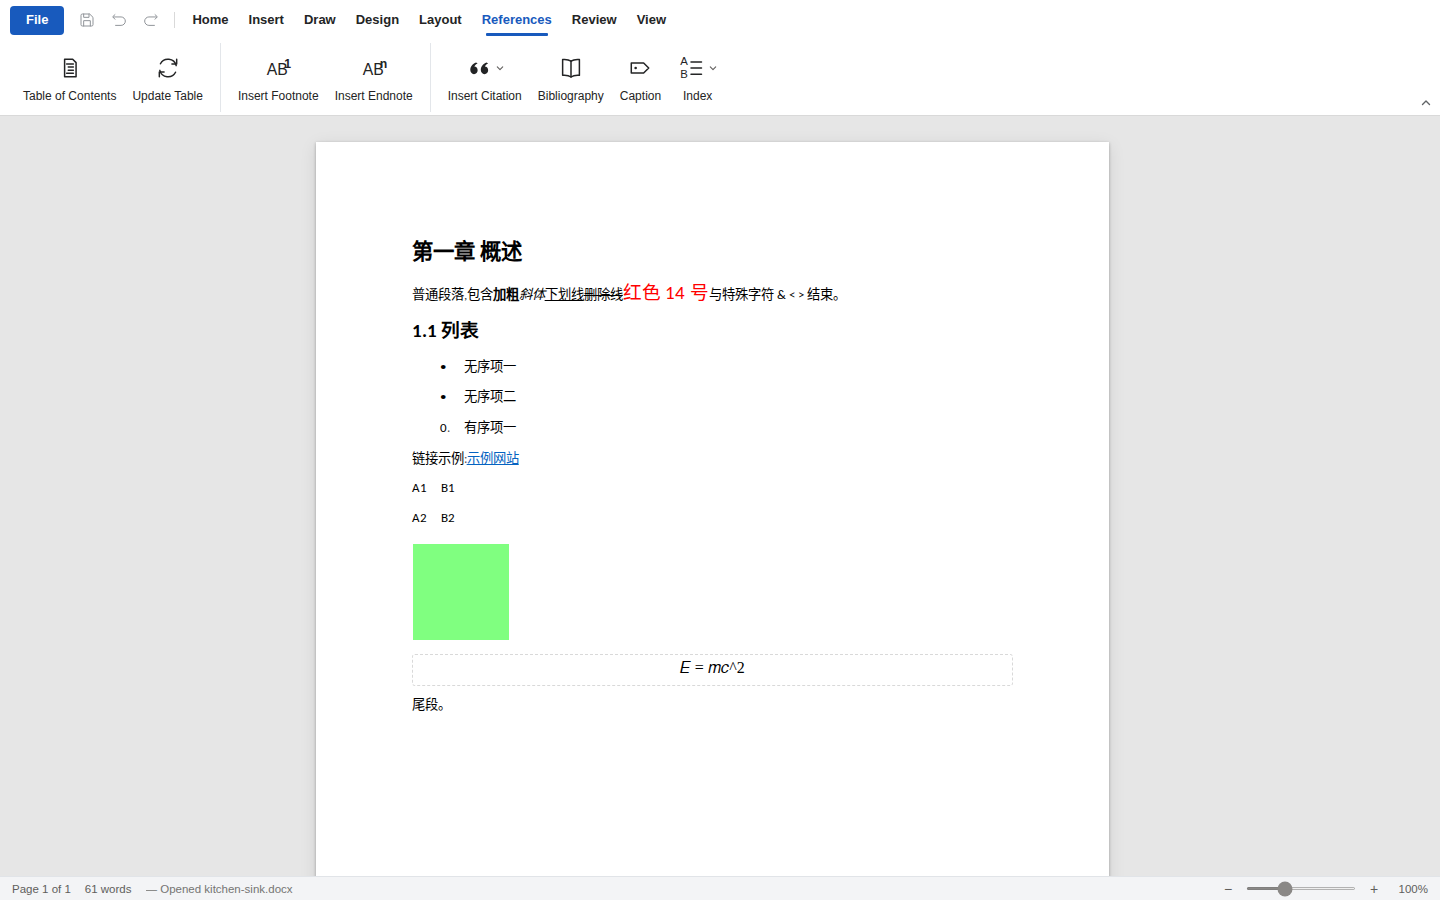
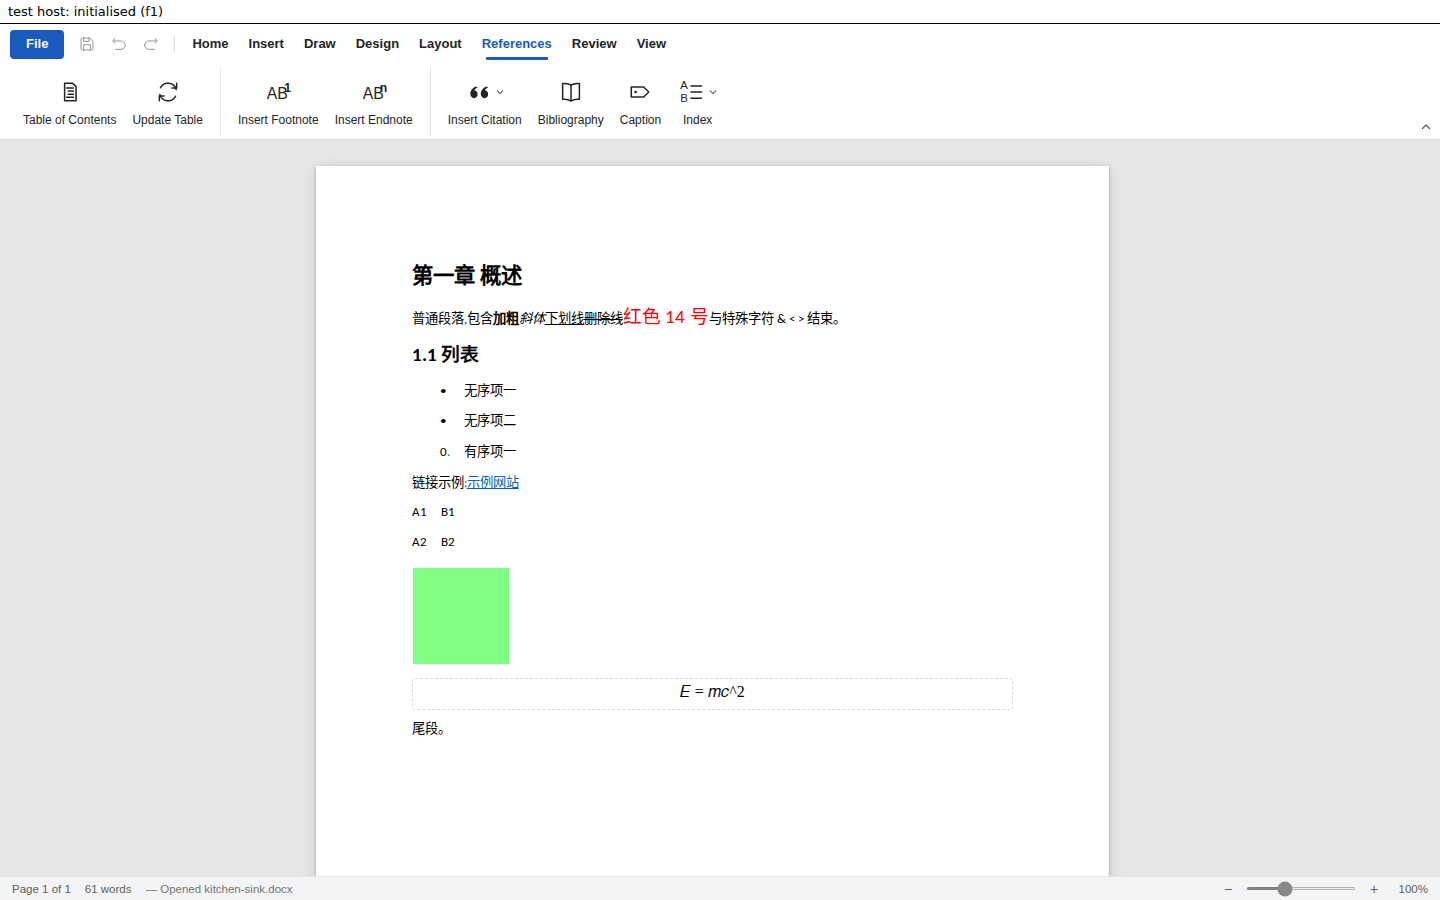
test(web-docs): run the W4 e2e through the protocol test host, retake screenshots
w4-hide.spec.ts now drives the editor inside iframe#frame of /test-host/ and passes
together with docs-web.spec.ts against one build. Two test.fail markers record
integration gaps in W3-owned files (host print request bypasses the BROWSER print;
init theme/locale not applied). Screenshots retaken through the host, including the
web Protect dialog description.

Refs: UNI-1013

diff --git a/web/e2e/w4-hide.spec.ts b/web/e2e/w4-hide.spec.ts
@@ -1,9 +1,11 @@
 // UNI-1013 W4: the web Docs UI with the desktop-only and AI/search/image entries hidden
 // (single `window.desktop.capabilities` source, web/docs/bridge/hide.ts), plus the BROWSER
-// class print path. Screenshots go to docs/web-docs/screenshots/w4/.
+// class print path. The editor runs inside iframe#frame of the protocol test host
+// (web/server/test-host), exactly as in production. Screenshots go to
+// docs/web-docs/screenshots/w4/.
 // Run (serialized lane-wide):
 //   flock /home/ubuntu/.uniwork-lane-build.lock npx playwright test -c web/e2e web/e2e/w4-hide.spec.ts
-import { test, expect, type Page } from '@playwright/test'
+import { test, expect, type Frame, type Page } from '@playwright/test'
 import { mkdirSync } from 'node:fs'
 import { resolve } from 'node:path'
 
@@ -12,57 +14,77 @@ mkdirSync(SHOTS, { recursive: true })
 
 const EDITOR = '.ProseMirror[contenteditable="true"]'
 
-async function openDoc(page: Page, theme?: 'light' | 'dark'): Promise<void> {
+/** console errors / page errors seen by the page and its frames (reported in the run summary) */
+const consoleErrors: string[] = []
+
+/** open the docx through the test host and return the editor iframe */
+async function openDoc(page: Page, theme?: 'light' | 'dark'): Promise<Frame> {
+  page.on('console', (m) => {
+    if (m.type() === 'error') consoleErrors.push(`console.error: ${m.text()} @ ${m.location().url}`)
+  })
+  page.on('pageerror', (e) => consoleErrors.push(`pageerror: ${e.message}`))
   if (theme) {
+    // same-origin frame: the bridge reads the stored UI theme at load
     await page.addInitScript((t) => localStorage.setItem('genoffice.web.theme', t), theme)
   }
-  await page.goto(`/?open=${encodeURIComponent('/fixtures/kitchen-sink.docx')}&lang=en`)
-  await page
+  await page.goto(`/test-host/?open=${encodeURIComponent('/fixtures/kitchen-sink.docx')}`)
+  await page.waitForFunction(() =>
+    /index\.html/.test((document.getElementById('frame') as HTMLIFrameElement)?.src ?? ''),
+  )
+  const ed = (await (await page.waitForSelector('#frame')).contentFrame())!
+  await ed
     .locator(EDITOR)
     .first()
     .getByText('普通段落', { exact: false })
     .first()
     .waitFor({ timeout: 30_000 })
+  return ed
 }
 
-const tab = (page: Page, name: string) =>
-  page.locator('.ribbon-tab', { hasText: new RegExp(`^${name}$`) })
+const tab = (ed: Frame, name: string) =>
+  ed.locator('.ribbon-tab', { hasText: new RegExp(`^${name}$`) })
 const shot = (page: Page, name: string) => page.screenshot({ path: resolve(SHOTS, `${name}.png`) })
 /** visible control labels of the open ribbon tab */
-const controls = (page: Page) =>
-  page.locator('.ribbon button.rb-big, .ribbon .ribbon-group-label').allTextContents()
+const controls = (ed: Frame) =>
+  ed.locator('.ribbon button.rb-big, .ribbon .ribbon-group-label').allTextContents()
+
+test.afterAll(() => {
+  // surfaced in the run summary; the specs below fail on a page error, console errors are reported
+  console.log(`w4-hide: ${consoleErrors.length} console/page error(s)`)
+  for (const line of consoleErrors) console.log(`  ${line}`)
+})
 
 test.describe('web capabilities hide entries', () => {
   test('the bridge exposes the web capability set', async ({ page }) => {
-    await openDoc(page)
-    const caps = await page.evaluate(() => (window as any).desktop.capabilities)
+    const ed = await openDoc(page)
+    const caps = await ed.evaluate(() => (window as any).desktop.capabilities)
     expect(caps).toMatchObject({ platform: 'web', ai: false, zotero: false, tabs: false })
   })
 
   test('Home: no AI group, no AutoSave toggle; the rest of Home is intact', async ({ page }) => {
-    await openDoc(page)
-    await expect(page.locator('.ai-entry')).toHaveCount(0)
-    await expect(page.locator('.ai-dock')).toHaveCount(0)
-    await expect(page.locator('.autosave-toggle')).toHaveCount(0)
-    const labels = (await controls(page)).join('|')
+    const ed = await openDoc(page)
+    await expect(ed.locator('.ai-entry')).toHaveCount(0)
+    await expect(ed.locator('.ai-dock')).toHaveCount(0)
+    await expect(ed.locator('.autosave-toggle')).toHaveCount(0)
+    const labels = (await controls(ed)).join('|')
     expect(labels).not.toMatch(/\bAI\b/)
     expect(labels).toContain('Paste')
     await shot(page, '01-home-no-ai')
   })
 
   test('References: no Zotero group', async ({ page }) => {
-    await openDoc(page)
-    await tab(page, 'References').click()
-    const labels = (await controls(page)).join('|')
+    const ed = await openDoc(page)
+    await tab(ed, 'References').click()
+    const labels = (await controls(ed)).join('|')
     expect(labels).not.toMatch(/Zotero/i)
     expect(labels).toMatch(/Table of Contents|Footnote/i)
     await shot(page, '02-references-no-zotero')
   })
 
   test('Review: no Editor / Translate / AI comments / AI revisions', async ({ page }) => {
-    await openDoc(page)
-    await tab(page, 'Review').click()
-    const labels = (await controls(page)).join('|')
+    const ed = await openDoc(page)
+    await tab(ed, 'Review').click()
+    const labels = (await controls(ed)).join('|')
     for (const gone of ['Editor', 'Translate', 'AI Resolve Comments', 'AI Revision Summary']) {
       expect(labels).not.toContain(gone)
     }
@@ -71,9 +93,9 @@ test.describe('web capabilities hide entries', () => {
   })
 
   test('View: no AI panel / New Tab / Switch Tabs; Split + Dark Mode stay', async ({ page }) => {
-    await openDoc(page)
-    await tab(page, 'View').click()
-    const labels = (await controls(page)).join('|')
+    const ed = await openDoc(page)
+    await tab(ed, 'View').click()
+    const labels = (await controls(ed)).join('|')
     for (const gone of ['AI Panel', 'New Tab', 'Switch Tabs']) expect(labels).not.toContain(gone)
     expect(labels).toContain('Split')
     expect(labels).toContain('Dark Mode')
@@ -81,41 +103,42 @@ test.describe('web capabilities hide entries', () => {
   })
 
   test('Protect dialog: no open-password fields', async ({ page }) => {
-    await openDoc(page)
-    await tab(page, 'Review').click()
-    await page.locator('button.rb-big', { hasText: 'Protect' }).first().click()
-    const dialog = page.locator('.protect-dialog')
+    const ed = await openDoc(page)
+    await tab(ed, 'Review').click()
+    await ed.locator('button.rb-big', { hasText: 'Protect' }).first().click()
+    const dialog = ed.locator('.protect-dialog')
     await expect(dialog).toBeVisible()
     await expect(dialog).not.toContainText('Password to open this document')
     await expect(dialog).toContainText('Password to modify this document')
+    await expect(dialog.locator('.modal-desc')).not.toContainText(/open/i)
     await shot(page, '05-protect-dialog-no-open-password')
   })
 
   test('context menu: no Synonyms / Translate', async ({ page }) => {
-    await openDoc(page)
-    const para = page.locator(EDITOR).first().getByText('普通段落', { exact: false }).first()
+    const ed = await openDoc(page)
+    const para = ed.locator(EDITOR).first().getByText('普通段落', { exact: false }).first()
     await para.dblclick()
     await para.click({ button: 'right' })
-    await expect(page.locator('.ctx-label', { hasText: /^Cut$/ })).toBeVisible()
-    await expect(page.locator('.ctx-label', { hasText: /Synonyms|Translate/ })).toHaveCount(0)
+    await expect(ed.locator('.ctx-label', { hasText: /^Cut$/ })).toBeVisible()
+    await expect(ed.locator('.ctx-label', { hasText: /Synonyms|Translate/ })).toHaveCount(0)
     await shot(page, '06-context-menu-no-ai')
   })
 
   test('dark UI theme: same entries hidden', async ({ page }) => {
-    await openDoc(page, 'dark')
-    await expect(page.locator('html')).toHaveAttribute('data-theme', 'dark')
-    await expect(page.locator('.ai-entry')).toHaveCount(0)
+    const ed = await openDoc(page, 'dark')
+    await expect(ed.locator('html')).toHaveAttribute('data-theme', 'dark')
+    await expect(ed.locator('.ai-entry')).toHaveCount(0)
     await shot(page, '07-home-dark-no-ai')
-    await tab(page, 'View').click()
+    await tab(ed, 'View').click()
     await shot(page, '08-view-dark-no-tabs-no-ai')
   })
 })
 
 test.describe('BROWSER class', () => {
   /** bitmap of the first document page under print media, while `during` runs */
-  async function printMediaBitmap(page: Page): Promise<string> {
+  async function printMediaBitmap(page: Page, ed: Frame): Promise<string> {
     await page.emulateMedia({ media: 'print' })
-    const png = await page.locator('.doc-page').first().screenshot()
+    const png = await ed.locator('.doc-page').first().screenshot()
     await page.emulateMedia({ media: 'screen' })
     return png.toString('base64')
   }
@@ -123,9 +146,9 @@ test.describe('BROWSER class', () => {
   test('print runs in the page, pins light for the job and restores the theme', async ({
     page,
   }) => {
-    await openDoc(page, 'dark')
+    const ed = await openDoc(page, 'dark')
     // window.print() blocks headless Chromium: observe the call instead
-    await page.evaluate(() => {
+    await ed.evaluate(() => {
       ;(window as any).__printed = []
       window.print = () => {
         ;(window as any).__printed.push({
@@ -135,49 +158,85 @@ test.describe('BROWSER class', () => {
         window.dispatchEvent(new Event('afterprint'))
       }
     })
-    expect(await page.evaluate(() => (window as any).desktop.print(1))).toEqual({ ok: true })
-    const printed = await page.evaluate(() => (window as any).__printed)
+    expect(await ed.evaluate(() => (window as any).desktop.print(1))).toEqual({ ok: true })
+    const printed = await ed.evaluate(() => (window as any).__printed)
     expect(printed).toHaveLength(1)
     expect(printed[0].theme).toBe('light')
     expect(printed[0].sheet).toContain('@page { margin: 0; }')
-    await expect(page.locator('html')).toHaveAttribute('data-theme', 'dark')
-    await expect(page.locator('#web-bridge-print-page')).toHaveCount(0)
+    await expect(ed.locator('html')).toHaveAttribute('data-theme', 'dark')
+    await expect(ed.locator('#web-bridge-print-page')).toHaveCount(0)
   })
 
   test('the printed page is pixel-identical whichever UI theme the user had', async ({ page }) => {
-    await openDoc(page, 'dark')
+    const ed = await openDoc(page, 'dark')
     // hold the print job open (no afterprint) so the print sheet + light pin stay active
-    await page.evaluate(() => {
+    await ed.evaluate(() => {
       window.print = () => {}
     })
-    const job = page.evaluate(() => (window as any).desktop.print(1))
-    await expect(page.locator('#web-bridge-print-page')).toHaveCount(1)
-    const fromDark = await printMediaBitmap(page)
-    await page.evaluate(() => window.dispatchEvent(new Event('afterprint')))
+    const job = ed.evaluate(() => (window as any).desktop.print(1))
+    await expect(ed.locator('#web-bridge-print-page')).toHaveCount(1)
+    const fromDark = await printMediaBitmap(page, ed)
+    await ed.evaluate(() => window.dispatchEvent(new Event('afterprint')))
     await job
 
-    await page.evaluate(() => {
+    await ed.evaluate(() => {
       window.print = () => {}
     })
-    await page.evaluate(() => document.documentElement.setAttribute('data-theme', 'light'))
-    const jobLight = page.evaluate(() => (window as any).desktop.print(1))
-    await expect(page.locator('#web-bridge-print-page')).toHaveCount(1)
-    const fromLight = await printMediaBitmap(page)
-    await page.evaluate(() => window.dispatchEvent(new Event('afterprint')))
+    await ed.evaluate(() => document.documentElement.setAttribute('data-theme', 'light'))
+    const jobLight = ed.evaluate(() => (window as any).desktop.print(1))
+    await expect(ed.locator('#web-bridge-print-page')).toHaveCount(1)
+    const fromLight = await printMediaBitmap(page, ed)
+    await ed.evaluate(() => window.dispatchEvent(new Event('afterprint')))
     await jobLight
     expect(fromDark).toBe(fromLight)
+  })
+
+  // The host's print request (W2 `print`, mode 'print') is answered by webapi.ts. It must go
+  // through the BROWSER print (window.desktop.print: light pin, print sheet, afterprint) and not
+  // call window.print() directly. Known integration gap reported to the lane lead: this is
+  // expected to fail until webapi.ts handlePrint delegates to window.desktop.print().
+  test.fail('a host print request runs the BROWSER print path', async ({ page }) => {
+    const ed = await openDoc(page, 'dark')
+    await ed.evaluate(() => {
+      ;(window as any).__printed = []
+      window.print = () => {
+        ;(window as any).__printed.push({
+          theme: document.documentElement.getAttribute('data-theme'),
+          sheet: !!document.getElementById('web-bridge-print-page'),
+        })
+        window.dispatchEvent(new Event('afterprint'))
+      }
+    })
+    await page.evaluate(() => (window as any).__host.request('print', { mode: 'print' }))
+    const printed = await ed.evaluate(() => (window as any).__printed)
+    expect(printed).toEqual([{ theme: 'light', sheet: true }])
+  })
+
+  // The host passes theme + locale in `init` (W2). The frame side must apply them through
+  // setWebTheme / setWebLanguage (browser.ts). Known integration gap reported to the lane lead:
+  // nothing consumes init.theme yet, so this is expected to fail until session/frame wiring lands.
+  test.fail('the host init theme is applied to the frame', async ({ page }) => {
+    await page.goto(
+      `/test-host/?theme=dark&open=${encodeURIComponent('/fixtures/kitchen-sink.docx')}`,
+    )
+    await page.waitForFunction(() =>
+      /index\.html/.test((document.getElementById('frame') as HTMLIFrameElement)?.src ?? ''),
+    )
+    const ed = (await (await page.waitForSelector('#frame')).contentFrame())!
+    await ed.locator(EDITOR).first().waitFor({ timeout: 30_000 })
+    await expect(ed.locator('html')).toHaveAttribute('data-theme', 'dark', { timeout: 3_000 })
   })
 
   test('document hyperlinks open without an opener and javascript: is blocked', async ({
     page,
     context,
   }) => {
-    await openDoc(page)
-    const blocked = await page.evaluate(() => window.open('javascript:alert(1)'))
+    const ed = await openDoc(page)
+    const blocked = await ed.evaluate(() => window.open('javascript:alert(1)'))
     expect(blocked).toBeNull()
     const [popup] = await Promise.all([
       context.waitForEvent('page', { timeout: 5_000 }).catch(() => null),
-      page.evaluate(() => window.open('https://example.com/', '_self')),
+      ed.evaluate(() => window.open('https://example.com/', '_self')),
     ])
     if (popup) {
       expect(await popup.evaluate(() => window.opener)).toBeNull()

diff --git a/docs/web-docs/w4-hide-browser.md b/docs/web-docs/w4-hide-browser.md
@@ -79,8 +79,8 @@ fits its `DesktopApi` return type (`isAiUnavailable(error)` matches the prefix):
 
 ## Open items / notes for the lead
 
-- The Protect dialog description (`appProtectDesc`, 19 locales) still says "open and modify
-  passwords" on the web. Not changed: it needs a string variant in every shard.
+- The Protect dialog description is now `appProtectDescWeb` (all 21 `i18n/app` shards) when
+  `docPassword` is off.
 - `autoSaveToDisk` is `false` on the web. If W3 wants a server-backed autosave later, flip the
   capability (or add a new key) rather than reviving the toggle.
 - Paper size for print comes from the browser's print dialog (desktop does the same via
@@ -90,3 +90,18 @@ fits its `DesktopApi` return type (`isAiUnavailable(error)` matches the prefix):
 - Tests: `apps/docs/tests/web-capabilities.test.ts` (renderer gating, mounts the real Ribbon /
   ContextMenu / ProtectDialog), `web/docs/bridge/hide.test.ts`, `web/docs/bridge/browser.test.ts`,
   Playwright `web/e2e/w4-hide.spec.ts`; screenshots in `docs/web-docs/screenshots/w4/`.
+
+## Integration through the test host (after the W3 merge)
+
+`web/e2e/w4-hide.spec.ts` runs through `/test-host/` (editor inside `iframe#frame`) together with
+`docs-web.spec.ts` against one `npm run build:web`; screenshots are taken of the host page.
+Two expected-failure tests (`test.fail`) record gaps in W3-owned files, to be fixed there:
+
+1. **Host print request bypasses the BROWSER print.** `webapi.ts` `handlePrint` calls
+   `window.print()` directly, so a host-initiated print has no print sheet, no light pin and no
+   `afterprint`. It should call `window.desktop.print()`.
+2. **Host `init.theme` / `init.locale` (and `theme` / `language` events) are not applied.**
+   Nothing consumes them; `browser.ts` already exports `setWebTheme` / `setWebLanguage` for the
+   frame wiring (session / frame-port) to call.
+
+When either is fixed the matching `test.fail` starts failing: delete the `test.fail` marker.
